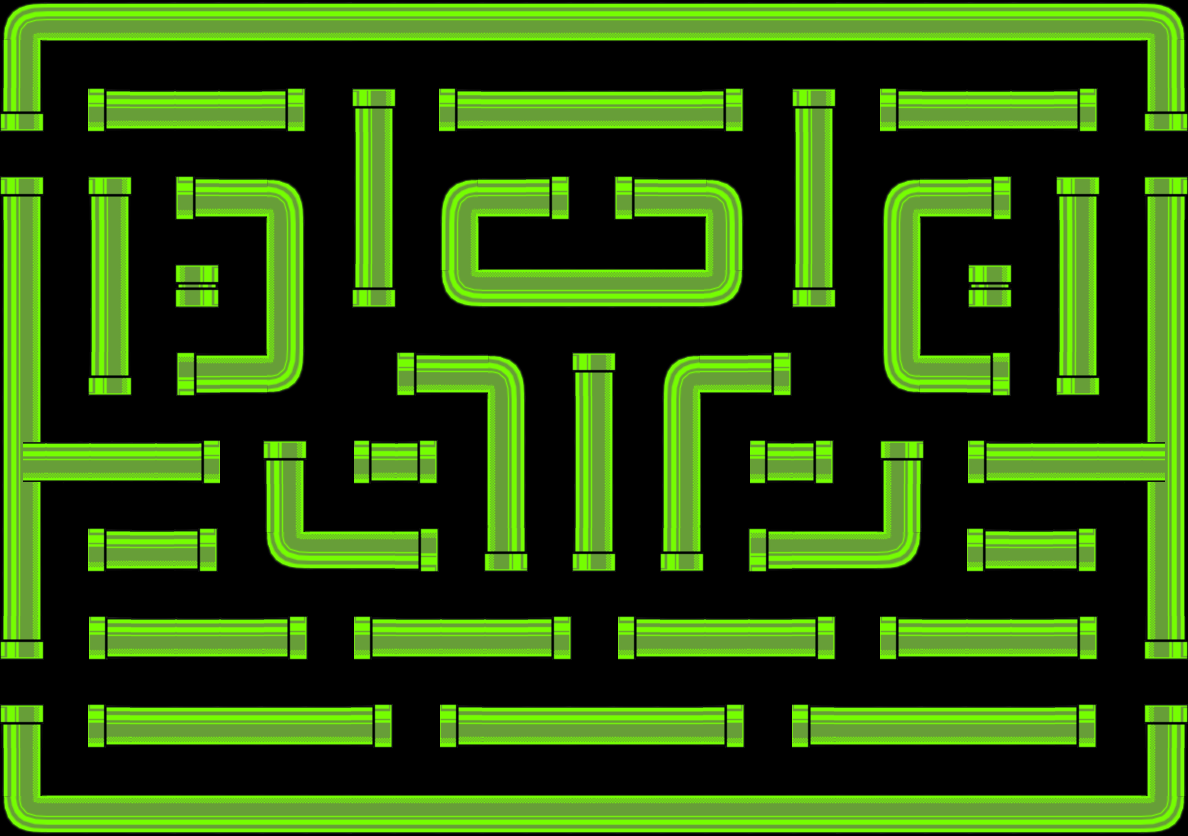
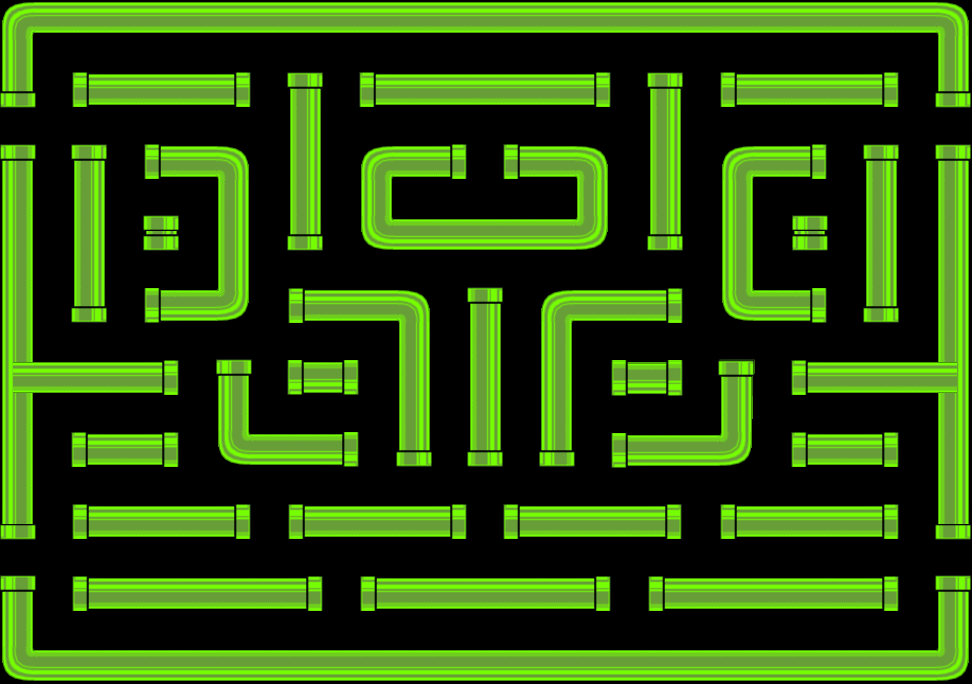
Redimension del mapa 2 y carga de paredes mediante archivos de texto

diff --git a/tdp-proyecto-3/src/logic/Director.java b/tdp-proyecto-3/src/logic/Director.java
@@ -143,7 +143,7 @@ public class Director {
 		List<Entity> walls = new ArrayList<Entity>();
 		
 		
-		Entity player = new MainCharacter(13 * size, 11 * size, "/assets/mario1.gif");
+		Entity player = new MainCharacter(13 * size, 7 * size, "/assets/mario1.gif");
 		
 		
 		try {
@@ -201,7 +201,7 @@ public class Director {
 			}
 				
 				
-		Entity ZonaSinDots = new Wall(9 * size, 5 * size, 9 * size, 5 * size);
+		Entity ZonaSinDots = new Wall(9 * size, 3 * size, 9 * size, 5 * size);
 		Rectangle2D sDots = ZonaSinDots.getRectangle();
 			
 		// elimino los que colisionan con la pared
@@ -226,10 +226,10 @@ public class Director {
 		}
 						
 				
-		Entity enemy1 = new EnemyTypeA(11 * size, 7 * size, "/assets/EnemyTypeA.gif");
-		Entity enemy2 = new EnemyTypeB(12 * size, 7 * size, "/assets/EnemyTypeB.gif");
-		Entity enemy3 = new EnemyTypeC(14 * size, 7 * size, "/assets/EnemyTypeC.gif");
-		Entity enemy4 = new EnemyTypeD(15 * size, 7 * size, "/assets/EnemyTypeD.gif");
+		Entity enemy1 = new EnemyTypeA(11 * size, 5 * size, "/assets/EnemyTypeA.gif");
+		Entity enemy2 = new EnemyTypeB(12 * size, 5 * size, "/assets/EnemyTypeB.gif");
+		Entity enemy3 = new EnemyTypeC(14 * size, 5 * size, "/assets/EnemyTypeC.gif");
+		Entity enemy4 = new EnemyTypeD(15 * size, 5 * size, "/assets/EnemyTypeD.gif");
 		
 		enemies.addAll(Arrays.asList(enemy1, enemy2, enemy3, enemy4));
 	

diff --git a/tdp-proyecto-3/src/entities/MainCharacter.java b/tdp-proyecto-3/src/entities/MainCharacter.java
@@ -16,7 +16,7 @@ public class MainCharacter extends Entity {
 		this.xVelocity = 0;
 		this.yVelocity = 0;
 		
-		this.width = 21;
+		this.width = 36;
 		this.height = 36;
 		
 		visitor = new VisitorMainCharacter(this);
